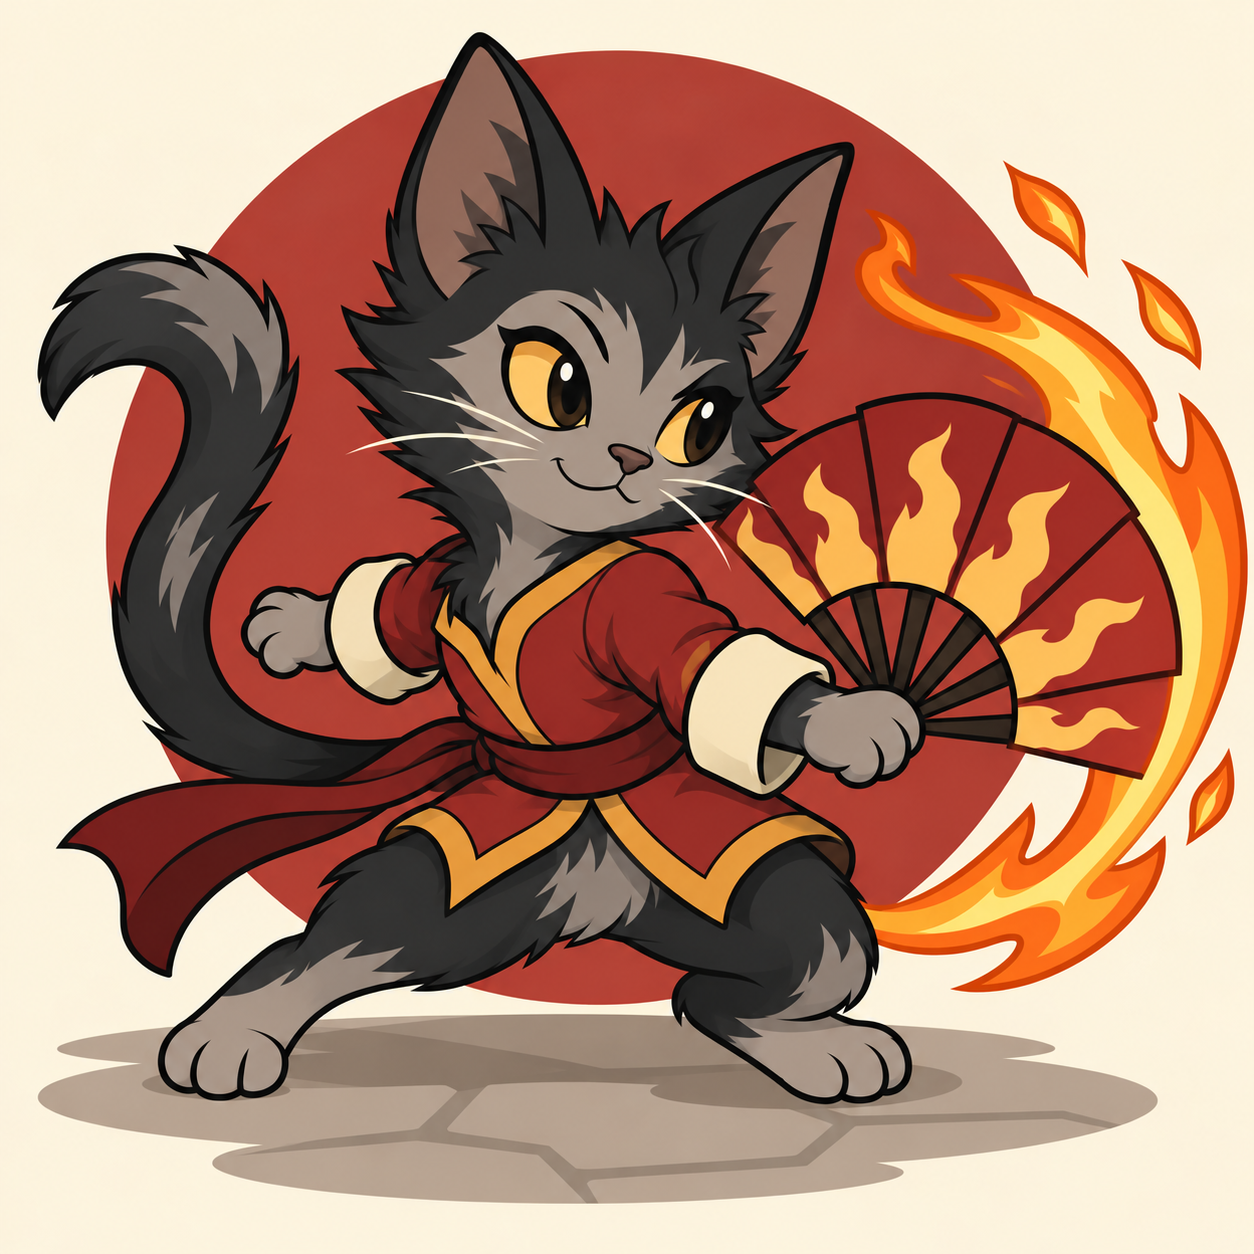
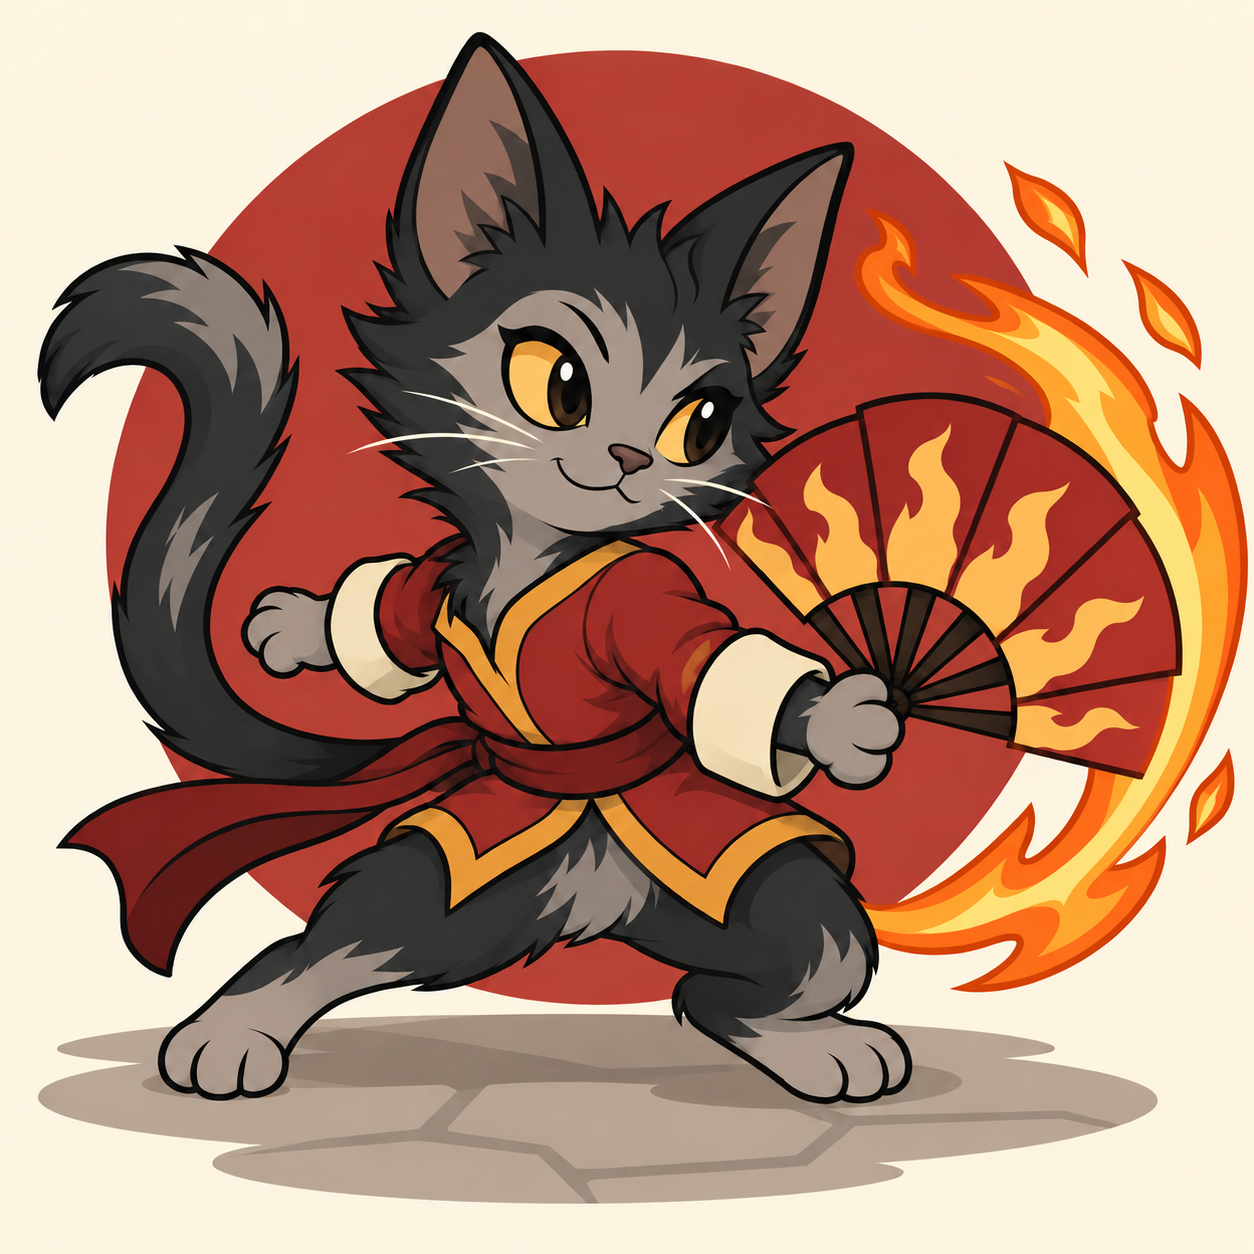
Correct Shazmir Ashveil's fan grip

Changed region(s): [[0.5909, 0.4665, 0.8086, 0.6531], [0.5287, 0.5287, 0.5598, 0.622], [0.8086, 0.5909, 0.8708, 0.622]]

diff --git a/test/uncommon-expansion-artwork.test.js b/test/uncommon-expansion-artwork.test.js
@@ -37,8 +37,8 @@ test("new Uncommon PNG masters match the existing square Rally master dimensions
   }
 });
 
-test("the wave-rider and glider redesigns retain their exact original drafts without changing Shazmir", () => {
-  assert.equal(manifest.version, 3);
+test("the wave-rider and glider redesigns retain their exact original drafts", () => {
+  assert.equal(manifest.version, 4);
   const hidayn = manifest.cards.find(card => card.name === "Hidayn Windbrace");
   const isai = manifest.cards.find(card => card.name === "Isai Tidebind");
   assert.match(hidayn.characterDescription, /glider soldier/);
@@ -60,8 +60,23 @@ test("the wave-rider and glider redesigns retain their exact original drafts wit
     assert.equal(createHash("sha256").update(backup).digest("hex"), digest);
     assert.notDeepEqual(readFileSync(new URL(card.asset, artworkFolder)), backup);
   }
+});
+
+test("Shazmir's selected grip correction preserves the original and excludes the rejected reverse hold", () => {
   const shazmir = manifest.cards.find(card => card.name === "Shazmir Ashveil");
[1 lines of base64/hex data omitted]
+  const preserved = shazmir.revisionHistory.find(revision => revision.type === "original-grip-preserved");
+  assert.equal(preserved.asset, "shazmir-ashveil-original-grip.png");
+  const backup = readFileSync(new URL(preserved.asset, artworkFolder));
[1 lines of base64/hex data omitted]
+  assert.notDeepEqual(readFileSync(new URL(shazmir.asset, artworkFolder)), backup);
+  assert.match(shazmir.latestRevisionPrompt, /NORMAL UPRIGHT FOLDING-FAN GRIP/);
+  assert.match(shazmir.latestRevisionPrompt, /NOT a reverse grip/);
+  const rejected = shazmir.revisionHistory.find(revision => revision.type === "fan-grip-reverse-hold-rejected");
+  assert.ok(rejected);
+  assert.notEqual(shazmir.generationSource, rejected.source);
+  assert.notEqual(shazmir.generationSource, preserved.source);
+  assert.equal(shazmir.asset, "shazmir-ashveil.png");
+  assert.deepEqual(shazmir.intendedStats, { rarity: "uncommon", role: "link", power: 5 });
 });
 
 test("the three framed previews fill the missing non-Rally role per element without changing normal gameplay", () => {
